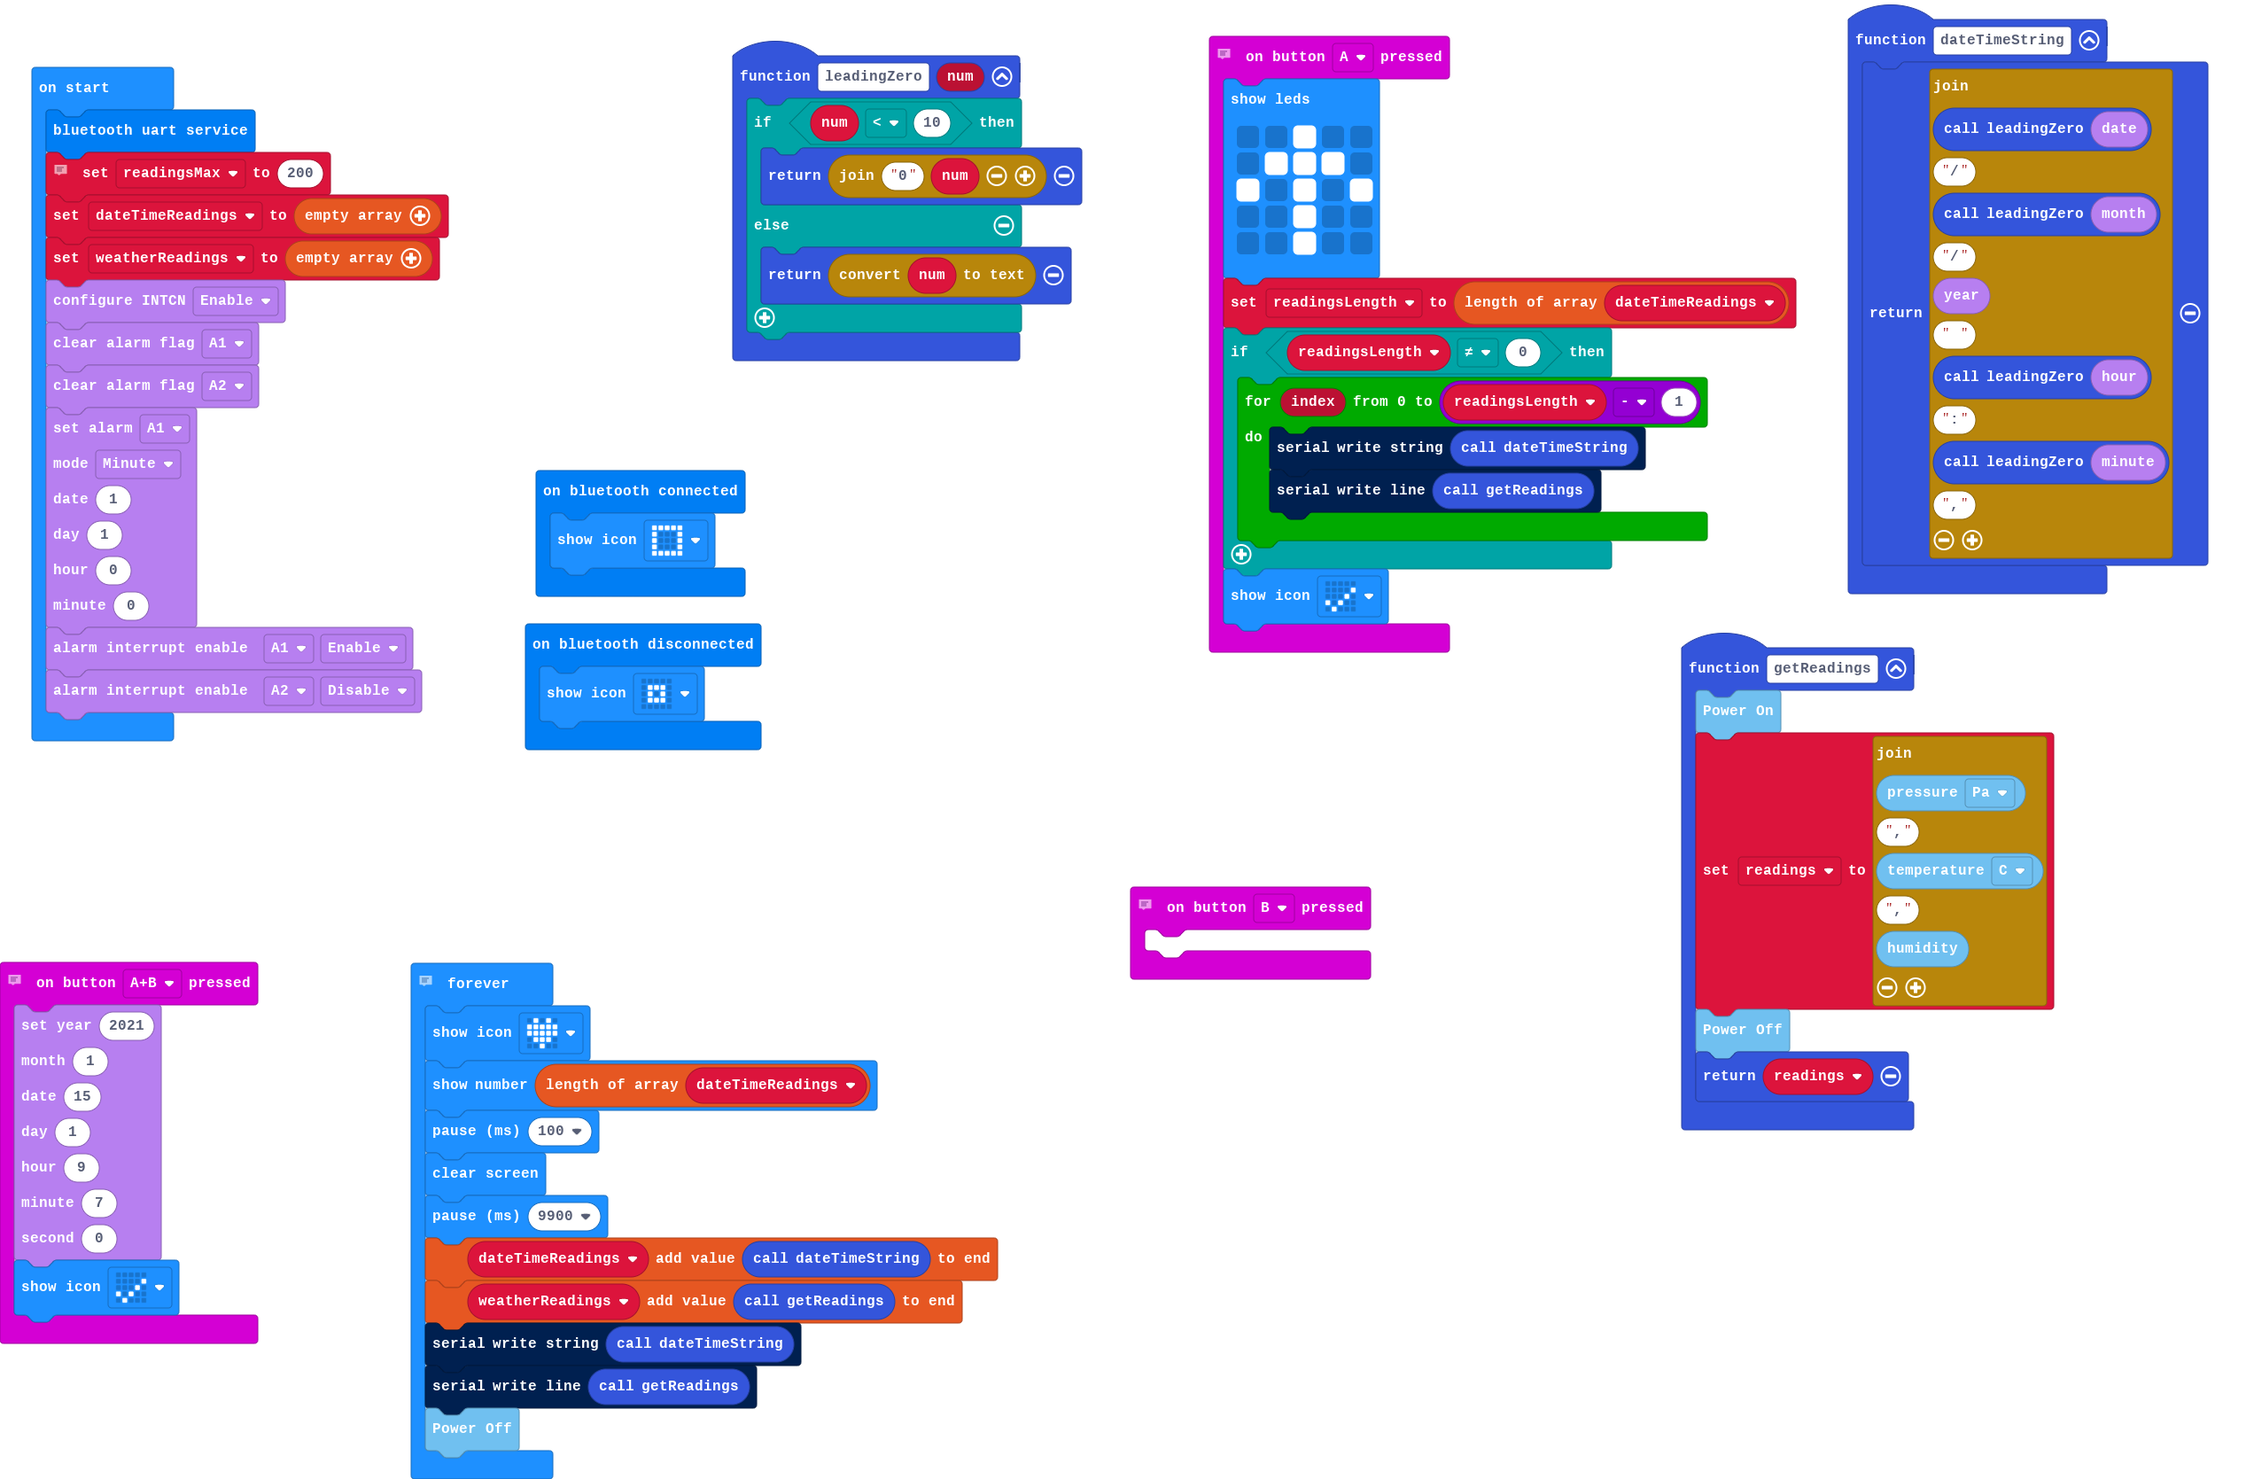
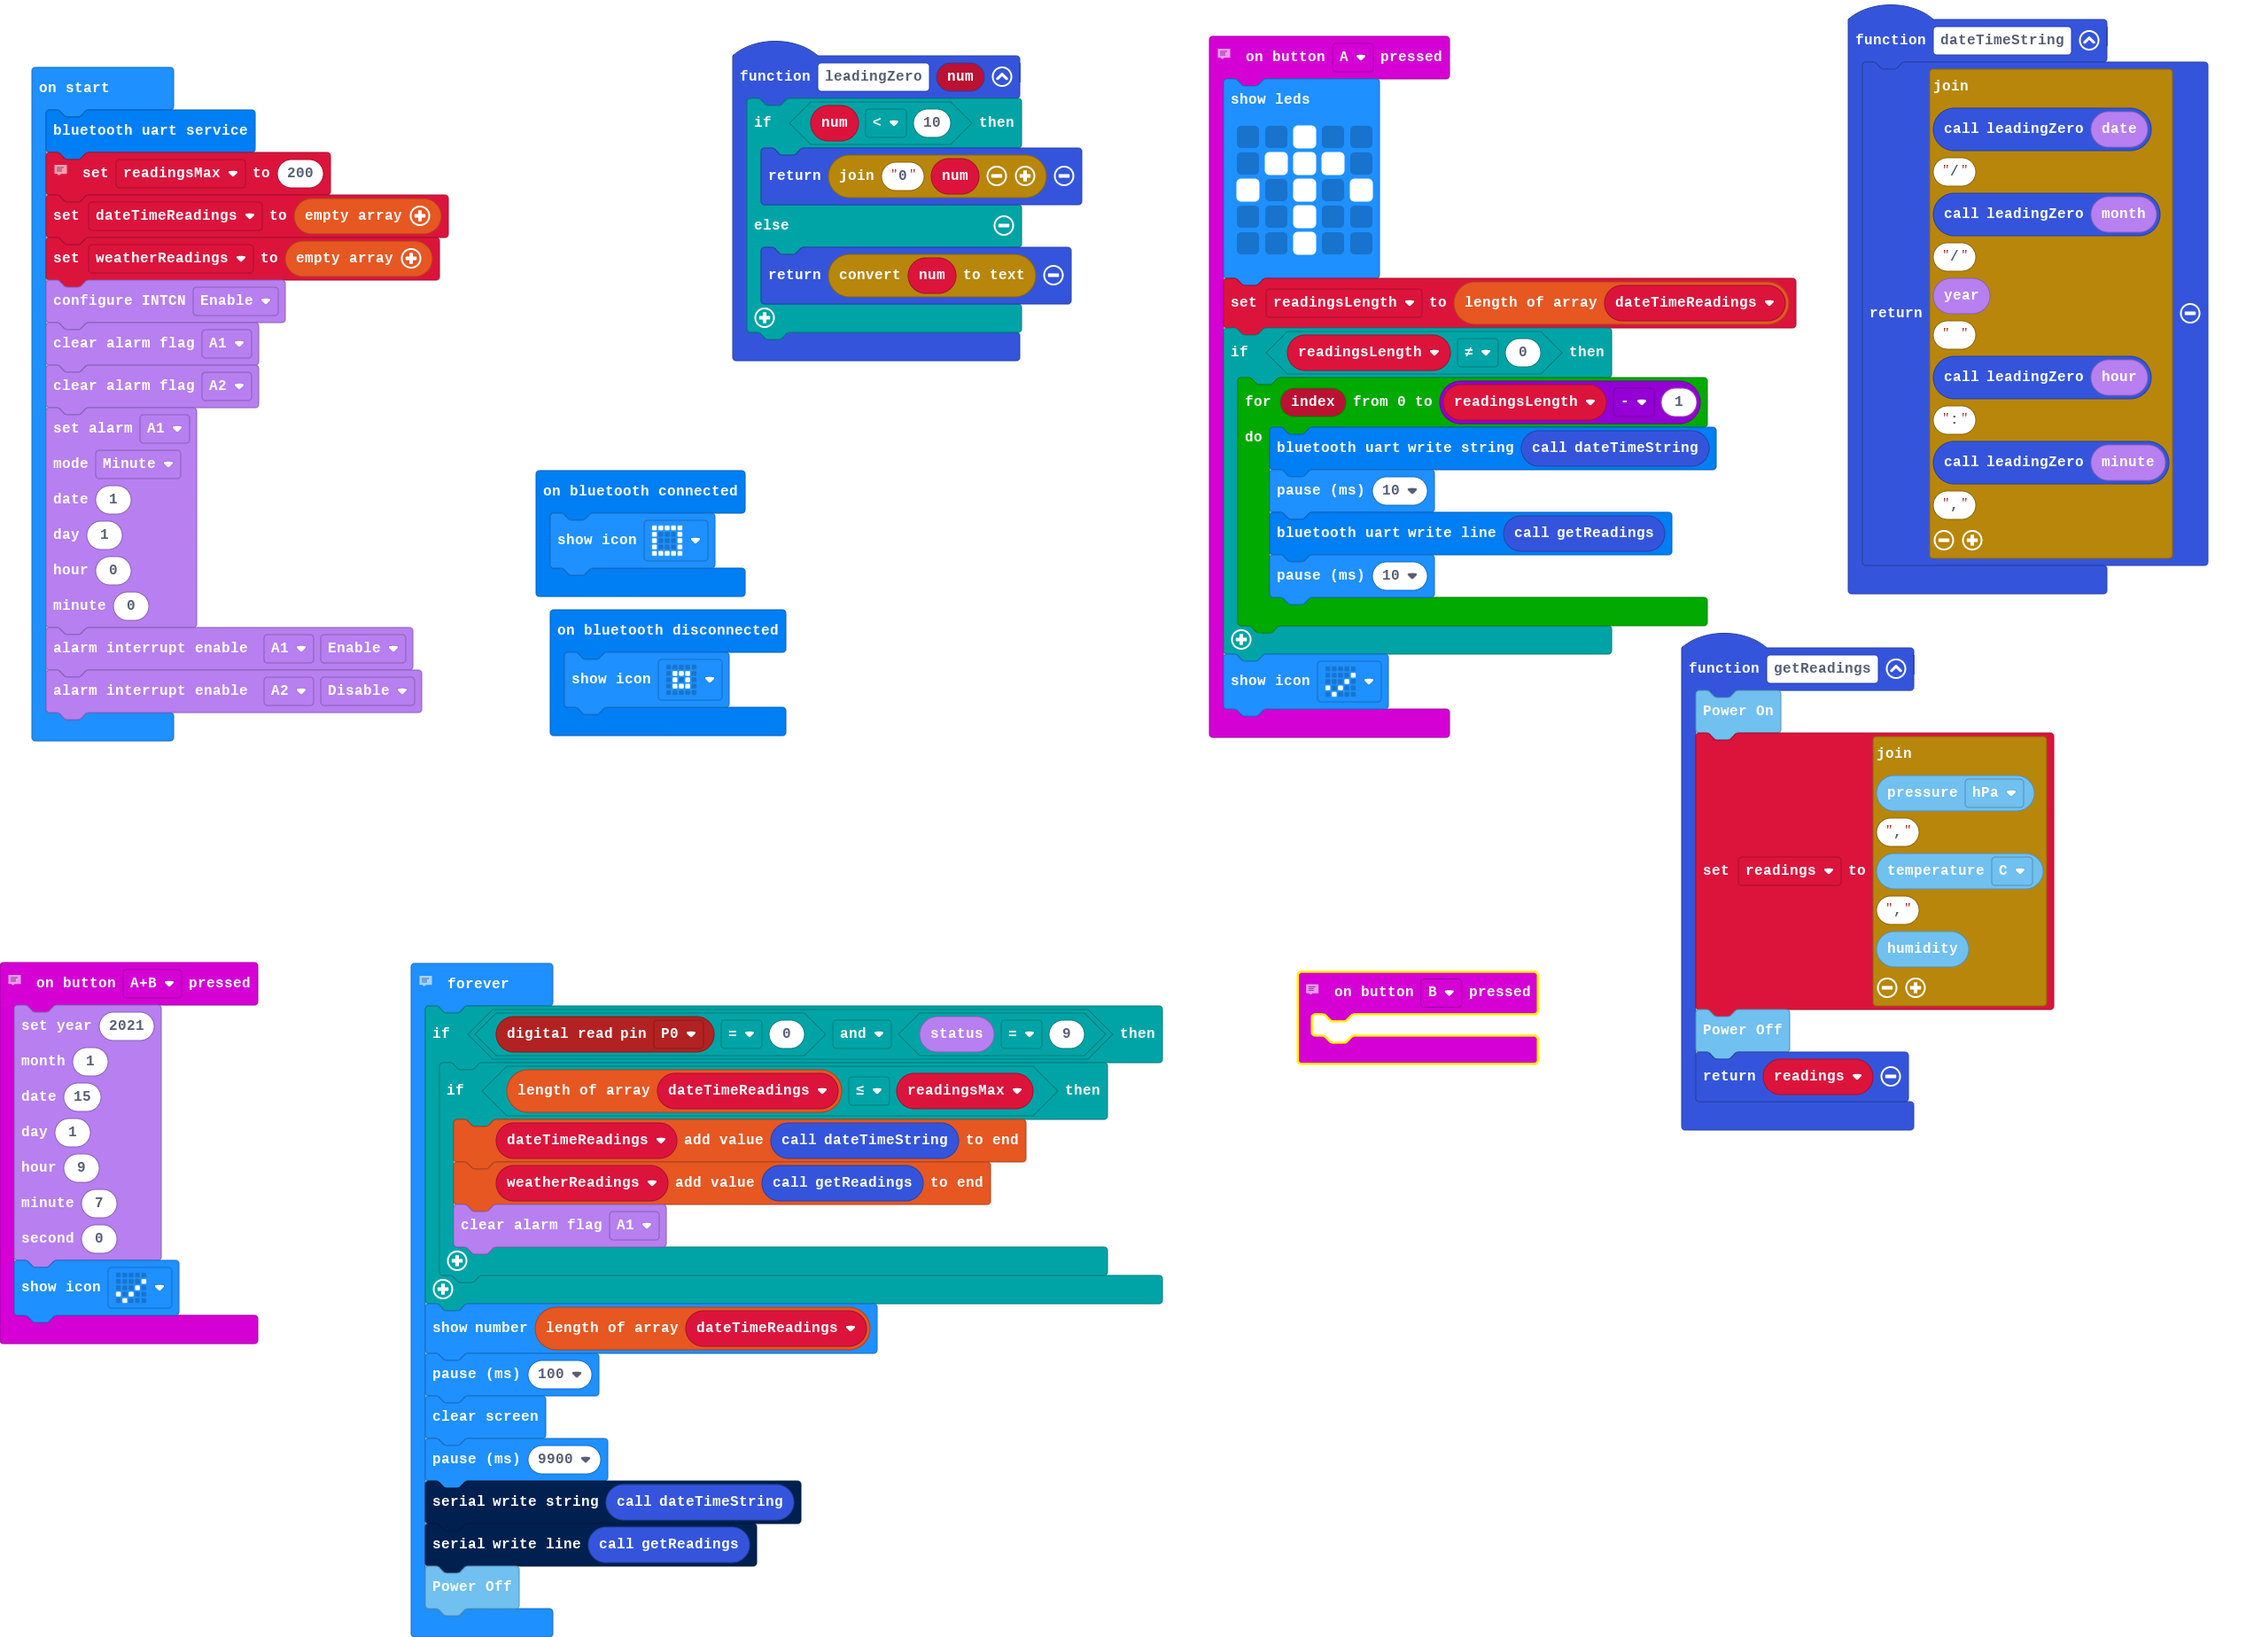
Added button A full code

diff --git a/main.ts b/main.ts
@@ -23,15 +23,17 @@ input.onButtonPressed(Button.A, function () {
     readingsLength = dateTimeReadings.length
     if (readingsLength != 0) {
         for (let index = 0; index <= readingsLength - 1; index++) {
-            serial.writeString("" + (dateTimeString()))
-            serial.writeLine("" + (getReadings()))
+            bluetooth.uartWriteString(dateTimeString())
+            basic.pause(10)
+            bluetooth.uartWriteLine(getReadings())
+            basic.pause(10)
         }
     }
     basic.showIcon(IconNames.Yes)
 })
 function getReadings () {
     BME280.PowerOn()
-    readings = "" + BME280.pressure(BME280_P.Pa) + "," + BME280.temperature(BME280_T.T_C) + "," + BME280.humidity()
+    readings = "" + BME280.pressure(BME280_P.hPa) + "," + BME280.temperature(BME280_T.T_C) + "," + BME280.humidity()
     BME280.PowerOff()
     return readings
 }
@@ -56,7 +58,7 @@ input.onButtonPressed(Button.B, function () {
 	
 })
 let readings = ""
-let readingsLength: number = []
+let readingsLength = 0
 let dateTimeReadings: string[] = []
 bluetooth.startUartService()
 // This is the maximum number of records in the readings array
@@ -78,13 +80,17 @@ DS3231.disableAlarm(alarmNum.A1, interruptEnable.Enable)
 DS3231.disableAlarm(alarmNum.A2, interruptEnable.Disable)
 // Poll pin P0 to see if alarm is set
 basic.forever(function () {
-    basic.showIcon(IconNames.Heart)
+    if (pins.digitalReadPin(DigitalPin.P0) == 0 && DS3231.status() == 9) {
+        if (dateTimeReadings.length <= readingsMax) {
+            dateTimeReadings.push(dateTimeString())
+            weatherReadings.push(getReadings())
+            DS3231.clearAlarmFlag(alarmNum.A1)
+        }
+    }
     basic.showNumber(dateTimeReadings.length)
     basic.pause(100)
     basic.clearScreen()
     basic.pause(9900)
-    dateTimeReadings.push(dateTimeString())
-    weatherReadings.push(getReadings())
     serial.writeString("" + (dateTimeString()))
     serial.writeLine("" + (getReadings()))
     BME280.PowerOff()
